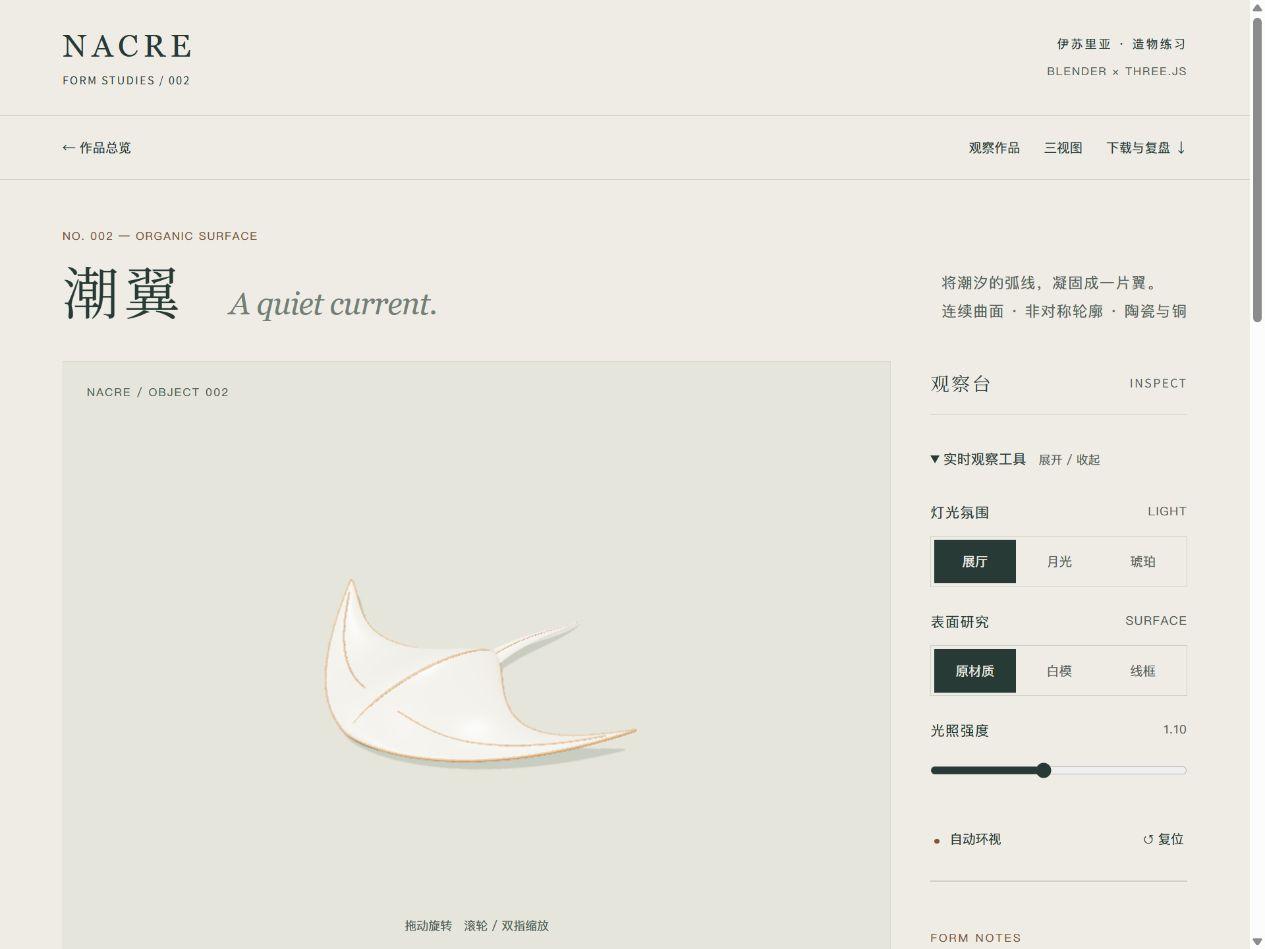
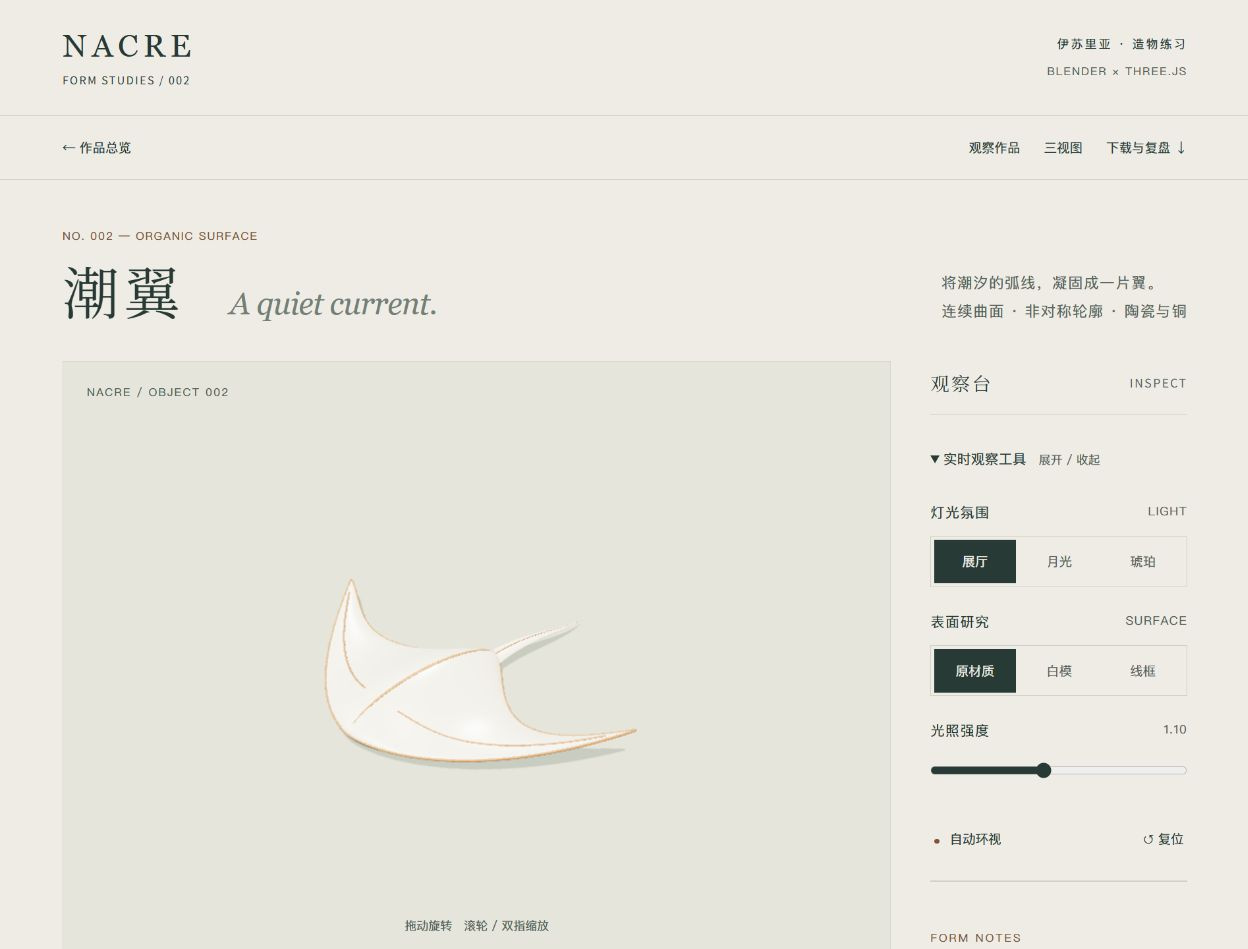
Fix W8: crop browser scrollbars from webpage covers

diff --git a/docs/web-library/index.html b/docs/web-library/index.html
@@ -113,7 +113,7 @@
 </article>
 <article class="card" data-search="潮翼 从密集骨架转向舒展体块，以非对称翼尖、连续弧线与留白探索轻盈感。 模型介绍页" data-kind="模型介绍页">
 <a class="cover" href="../studies/002/">
-<img src="../thumbnails/002-page-65a24e911043-600.webp" alt="潮翼网页首屏，浅色排版中的翼形模型与观察控制面板" loading="lazy" srcset="../thumbnails/002-page-65a24e911043-300.webp 300w, ../thumbnails/002-page-65a24e911043-600.webp 600w" sizes="(max-width: 480px) calc(100vw - 60px), (max-width: 850px) calc((100vw - 88px) / 2), (max-width: 1320px) calc((100vw - 144px) / 3), 385px" width="600" height="450" decoding="async" data-source="assets/002-page.jpg">
+<img src="../thumbnails/002-page-5c337495b7e9-600.webp" alt="潮翼网页首屏，浅色排版中的翼形模型与观察控制面板" loading="lazy" srcset="../thumbnails/002-page-5c337495b7e9-300.webp 300w, ../thumbnails/002-page-5c337495b7e9-600.webp 600w" sizes="(max-width: 480px) calc(100vw - 60px), (max-width: 850px) calc((100vw - 88px) / 2), (max-width: 1320px) calc((100vw - 144px) / 3), 385px" width="600" height="456" decoding="async" data-source="assets/002-page.jpg">
 <span>网页截图</span>
 </a>
 <div class="cardbody">
@@ -133,7 +133,7 @@
 </article>
 <article class="card" data-search="玄瞳 从静止器物走向运动关系。八片叶片独立旋转，研究孔口、遮挡、支点与净空。 模型介绍页" data-kind="模型介绍页">
 <a class="cover" href="../studies/003/">
-<img src="../thumbnails/003-page-d5d439d43a03-600.webp" alt="玄瞳网页首屏，深色排版中的机械孔口与开合状态选择" loading="lazy" srcset="../thumbnails/003-page-d5d439d43a03-300.webp 300w, ../thumbnails/003-page-d5d439d43a03-600.webp 600w" sizes="(max-width: 480px) calc(100vw - 60px), (max-width: 850px) calc((100vw - 88px) / 2), (max-width: 1320px) calc((100vw - 144px) / 3), 385px" width="600" height="450" decoding="async" data-source="assets/003-page.jpg">
+<img src="../thumbnails/003-page-25a368f4adf7-600.webp" alt="玄瞳网页首屏，深色排版中的机械孔口与开合状态选择" loading="lazy" srcset="../thumbnails/003-page-25a368f4adf7-300.webp 300w, ../thumbnails/003-page-25a368f4adf7-600.webp 600w" sizes="(max-width: 480px) calc(100vw - 60px), (max-width: 850px) calc((100vw - 88px) / 2), (max-width: 1320px) calc((100vw - 144px) / 3), 385px" width="600" height="456" decoding="async" data-source="assets/003-page.jpg">
 <span>网页截图</span>
 </a>
 <div class="cardbody">
@@ -153,7 +153,7 @@
 </article>
 <article class="card" data-search="岬界 从孤立器物走向场所。用墙厚、真实拱洞与阶梯，把建筑和岩岸连接为一条抵达路线。 模型介绍页" data-kind="模型介绍页">
 <a class="cover" href="../studies/004/">
-<img src="../thumbnails/004-page-3b0fa731e448-600.webp" alt="岬界网页首屏，大幅标题与岩岸观测建筑图" loading="lazy" srcset="../thumbnails/004-page-3b0fa731e448-300.webp 300w, ../thumbnails/004-page-3b0fa731e448-600.webp 600w" sizes="(max-width: 480px) calc(100vw - 60px), (max-width: 850px) calc((100vw - 88px) / 2), (max-width: 1320px) calc((100vw - 144px) / 3), 385px" width="600" height="450" decoding="async" data-source="assets/004-page.jpg">
+<img src="../thumbnails/004-page-9b80966a8550-600.webp" alt="岬界网页首屏，大幅标题与岩岸观测建筑图" loading="lazy" srcset="../thumbnails/004-page-9b80966a8550-300.webp 300w, ../thumbnails/004-page-9b80966a8550-600.webp 600w" sizes="(max-width: 480px) calc(100vw - 60px), (max-width: 850px) calc((100vw - 88px) / 2), (max-width: 1320px) calc((100vw - 144px) / 3), 385px" width="600" height="456" decoding="async" data-source="assets/004-page.jpg">
 <span>网页截图</span>
 </a>
 <div class="cardbody">
@@ -273,7 +273,7 @@
 </article>
 <article class="card" data-search="禾仓·前场 以河南新密东汉陶明器为主参考，区分仓体实物依据、彩绘梯廊转译与原创开放前场；三种几何方案改变仓体比例、梯廊和前场关系。 模型介绍页" data-kind="模型介绍页">
 <a class="cover" href="../studies/012/">
-<img src="../thumbnails/012-page-896198a8c428-600.webp" alt="禾仓网页首屏，仓体主图与建筑研究文字并列" loading="lazy" srcset="../thumbnails/012-page-896198a8c428-300.webp 300w, ../thumbnails/012-page-896198a8c428-600.webp 600w" sizes="(max-width: 480px) calc(100vw - 60px), (max-width: 850px) calc((100vw - 88px) / 2), (max-width: 1320px) calc((100vw - 144px) / 3), 385px" width="600" height="450" decoding="async" data-source="assets/012-page.jpg">
+<img src="../thumbnails/012-page-e6f125a13e40-600.webp" alt="禾仓网页首屏，仓体主图与建筑研究文字并列" loading="lazy" srcset="../thumbnails/012-page-e6f125a13e40-300.webp 300w, ../thumbnails/012-page-e6f125a13e40-600.webp 600w" sizes="(max-width: 480px) calc(100vw - 60px), (max-width: 850px) calc((100vw - 88px) / 2), (max-width: 1320px) calc((100vw - 144px) / 3), 385px" width="600" height="456" decoding="async" data-source="assets/012-page.jpg">
 <span>网页截图</span>
 </a>
 <div class="cardbody">
@@ -293,7 +293,7 @@
 </article>
 <article class="card" data-search="阙影·标界 主子相依，道路从旁。三案比较主子体比例、阶折基台与道路侧向关系；只研究单侧标界，不拼成城门。 模型介绍页" data-kind="模型介绍页">
 <a class="cover" href="../studies/014/">
-<img src="../thumbnails/014-page-faa7a7c8185a-600.webp" alt="阙影网页首屏，双体标界建筑图与形态解读并列" loading="lazy" srcset="../thumbnails/014-page-faa7a7c8185a-300.webp 300w, ../thumbnails/014-page-faa7a7c8185a-600.webp 600w" sizes="(max-width: 480px) calc(100vw - 60px), (max-width: 850px) calc((100vw - 88px) / 2), (max-width: 1320px) calc((100vw - 144px) / 3), 385px" width="600" height="450" decoding="async" data-source="assets/014-page.jpg">
+<img src="../thumbnails/014-page-331b4948e12b-600.webp" alt="阙影网页首屏，双体标界建筑图与形态解读并列" loading="lazy" srcset="../thumbnails/014-page-331b4948e12b-300.webp 300w, ../thumbnails/014-page-331b4948e12b-600.webp 600w" sizes="(max-width: 480px) calc(100vw - 60px), (max-width: 850px) calc((100vw - 88px) / 2), (max-width: 1320px) calc((100vw - 144px) / 3), 385px" width="600" height="456" decoding="async" data-source="assets/014-page.jpg">
 <span>网页截图</span>
 </a>
 <div class="cardbody">
